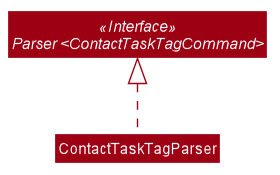
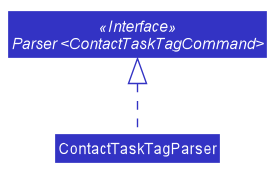
Change UML diagrams to follow Logic's color (blue)
-Tweak NFR (100 mb instead of 1GB)
-Attempt to resize contactTaskTagSequenceDiagram
-Tweak user story of common tag
-Edit delete manual testing

diff --git a/docs/DeveloperGuide.md b/docs/DeveloperGuide.md
@@ -259,7 +259,7 @@ The activity diagram when user enters the find event or find todo command is sim
 
 Upon calling `contactTaskTagParser`, the static classes from `contactTaskTagCommand`: `editEditPersonTags` and `EditTaskTags` will be invoked.
 
-If the person and task index are valid, and there is at least 1 tag given, it returns a new ContactTaskTagCommand.
+If the person and task index are valid, and there is at least 1 tag given, it returns a new `ContactTaskTagCommand`.
 
 ##### Command:
 
@@ -274,7 +274,7 @@ Then, it will update the `FilteredPersonList` and `FilteredTaskList` to reflect 
 
 The following sequence diagram shows how the `contactTaskTag` works:
 
-![contactTaskTagSequenceDiagram](images/contactTaskTag/contactTaskTagSequenceDiagram.png)
+![contactTaskTagSequenceDiagram|width=2100px](images/contactTaskTag/contactTaskTagSequenceDiagram.png)
 
 Note: The details to of the `Storage` model is being omitted, as it is the same procedure as adding a new contact/task.
 
@@ -338,7 +338,7 @@ Priorities: High (must have) - `* * *`, Medium (nice to have) - `* *`, Low (unli
 | `* *`    | forgetful/disorganised student | see what tasks are due soon | finish up the most urgent tasks first |
 | `*`      | user with many contacts in the Lifebook | sort persons by name           | locate a person easily                                                 |
 | `*`      | student with weekly lectures and tutorials | add recurring tasks         | save time by not adding the same task every week, which is time-consuming|
-| `*`       | student                                  | have a common tag for my contact and task | easily search for the associated contacts with a task |
+| `*`      | student                                  | have a common tag for my contact and task | easily find the person I am working with in a project |
 
 
 ### Use cases
@@ -356,7 +356,6 @@ Priorities: High (must have) - `* * *`, Medium (nice to have) - `* *`, Low (unli
 4.  Lifebook deletes the person
 
     Use case ends.
-
 
 
 **Extensions**
@@ -659,7 +658,7 @@ Use case ends.
 4.  A user with above average typing speed for regular English text (i.e. not code, not system admin commands) should be able to accomplish most of the tasks faster using commands than using the mouse.
 5.  Commands should be intuitive so that users can quickly remember the commands.
 6.  Should work without an Internet connection.
-7.  Should not require more than 1 GB of storage space.
+7.  Should not require more than 100 MB of storage space.
 8.  Should be able to backup and restore data by simply copying the whole Lifebook folder.
 9.  A user should be able to switch contact/task list with command or by clicking on the GUI.
 10. The data saved should be in a human-readable format. 
@@ -710,7 +709,7 @@ testers are expected to do more *exploratory* testing.
    1. Test case: `delete contact 0`<br>
       Expected: No person is deleted. Error details shown in the status message. Status bar remains the same.
 
-   1. Other incorrect delete commands to try: `delete`, `delete x`, `...` (where x is larger than the list size)<br>
+   1. Other incorrect delete commands to try: `delete`, `delete contact x` (where x is larger than the list size)<br>
       Expected: Similar to previous.
 
 ### Adding a task (e.g. Todo)
